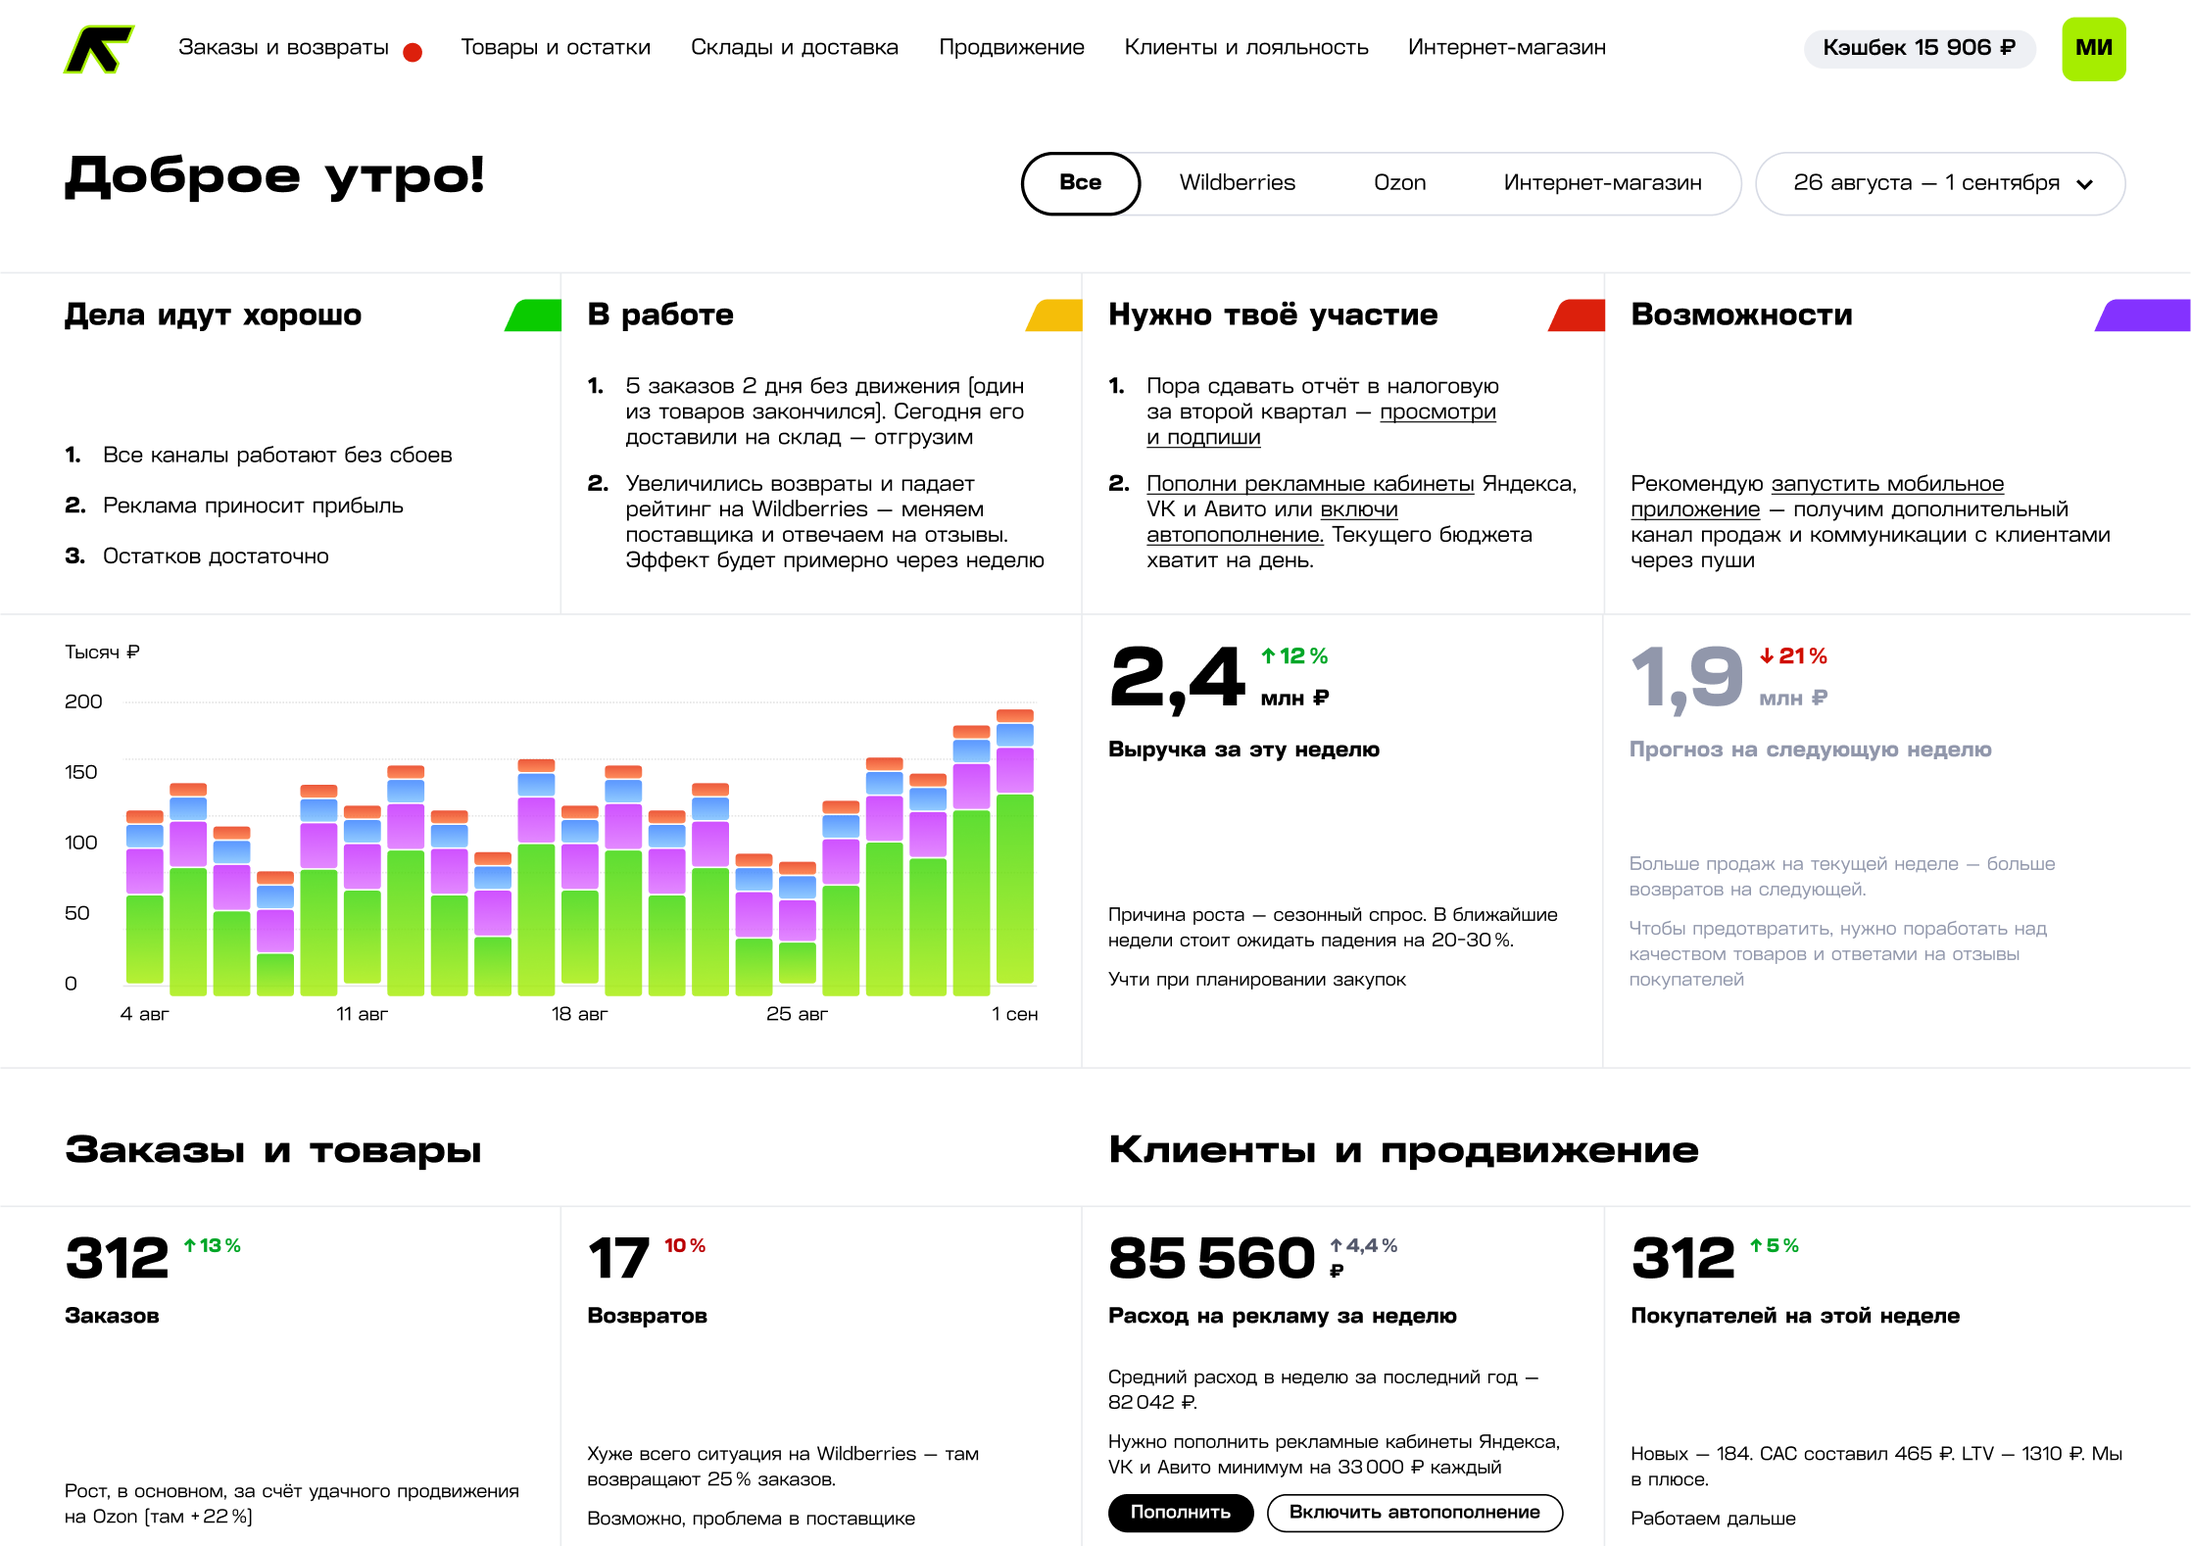
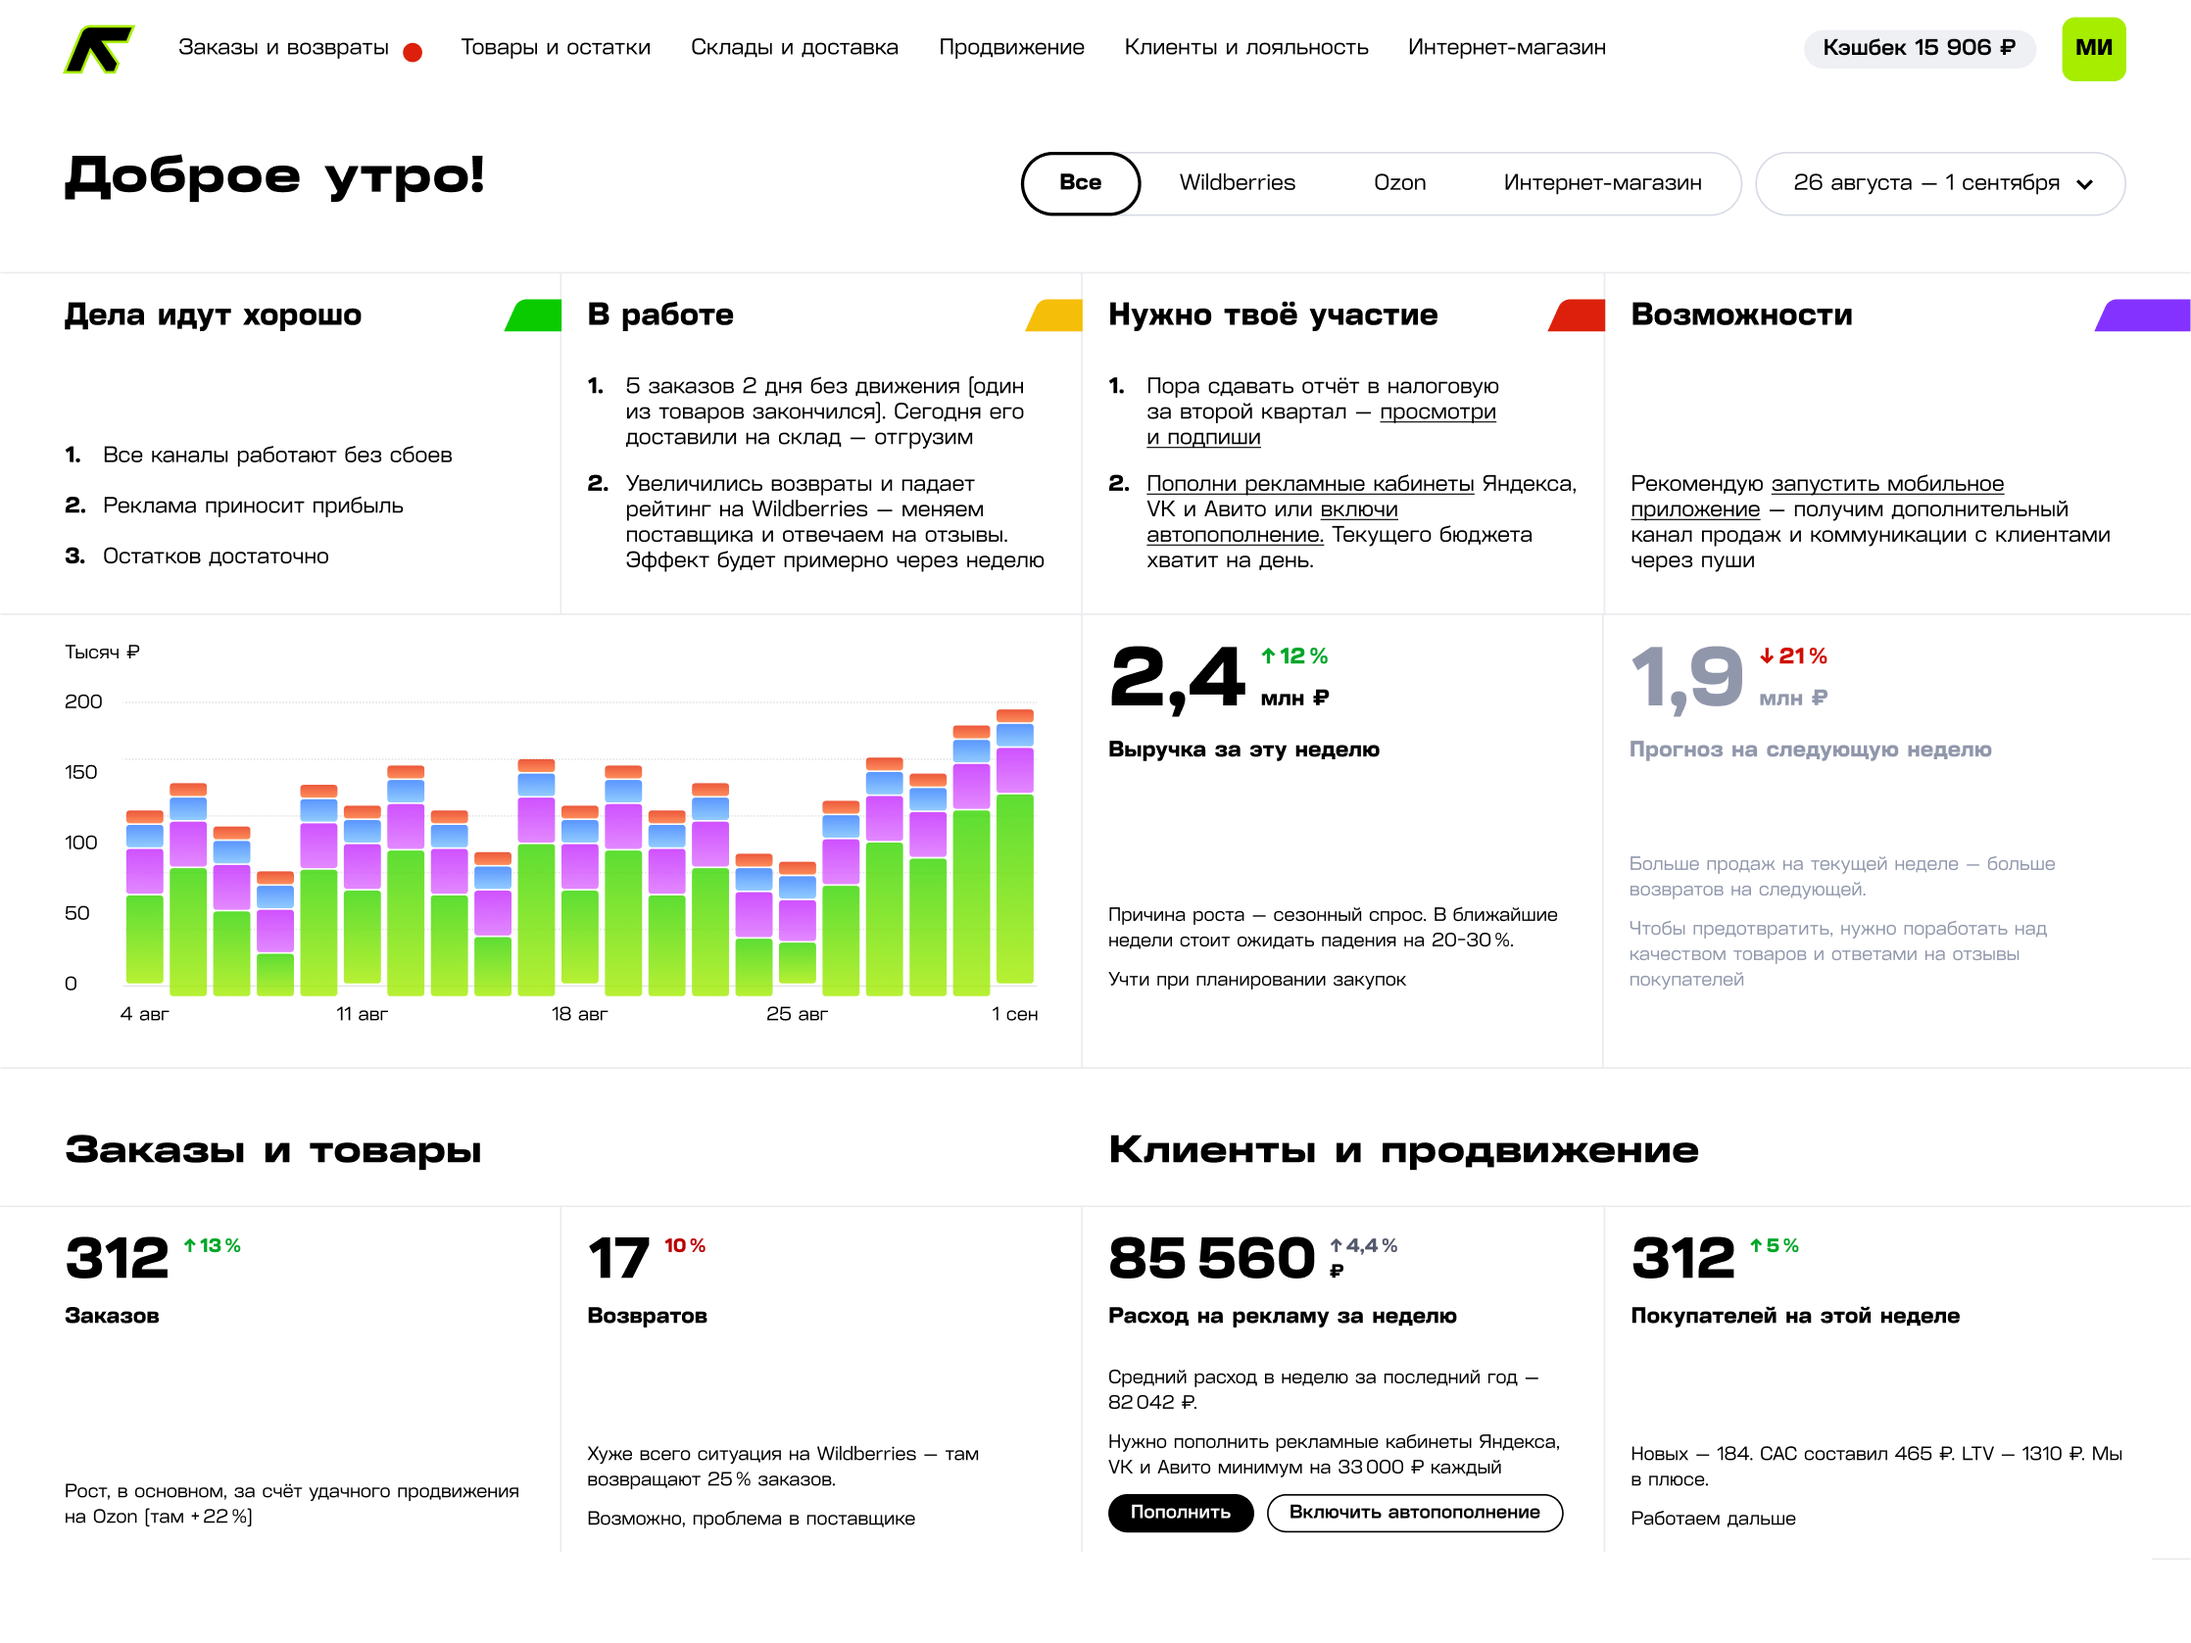
Replace the white section grounds with smoky white

diff --git a/index.html b/index.html
@@ -58,7 +58,7 @@
     </div>
   </section>
 
-  <section class="section" id="capabilities" data-theme="white" data-ink="dark">
+  <section class="section" id="capabilities" data-theme="smoke" data-ink="dark">
     <div class="section__inner">
       <div class="section__lead">
         <h2 class="section__title">Весь цикл продаж в&nbsp;одном кабинете</h2>
@@ -110,7 +110,7 @@
     </div>
   </section>
 
-  <section class="section" id="audience" data-theme="white" data-ink="dark">
+  <section class="section" id="audience" data-theme="smoke" data-ink="dark">
     <div class="section__inner">
       <div class="section__lead">
         <h2 class="section__title">Смелые уже с&nbsp;нами</h2>

diff --git a/assets/css/base.css b/assets/css/base.css
@@ -362,9 +362,9 @@ img { display: block; max-width: 100%; height: auto; }
   opacity: var(--t, 0);
 }
 
-/* Every source so far is 1118×789 (1.42:1) against a 4:3 frame, so `cover` trims 33px off
-   each side at 1x; the client knows and is fine with it (CONTEXT §3). Figma nodes:
-   hero `196:53708`, capabilities `204:51472`. */
+/* Figma nodes: hero `196:53708`, capabilities `206:58220`. The capabilities screen is a
+   true 4:3 frame and fills exactly; the hero photograph is 1.42:1, so `cover` trims 33px
+   off each side at 1x — the client knows and is fine with it (CONTEXT §3). */
 .stage-frame__slide[data-for="hero"] {
   background-image: url("../images/hero.webp");
 }

diff --git a/CONTEXT.md b/CONTEXT.md
@@ -68,15 +68,17 @@ Header + 7 sections + footer.
 | # | Section | Background |
 |---|---|---|
 | 1 | Hero | Green `#A6ED00` |
-| 2 | Key capabilities | White `#FFFFFF` |
+| 2 | Key capabilities | Smoky white `#E9EBEE` |
 | 3 | Speed | Smoky white `#E9EBEE` |
 | 4 | Customization | Black `#000000` |
 | 5 | Marketplaces | Smoky white `#E9EBEE` |
-| 6 | Audience | White `#FFFFFF` |
+| 6 | Audience | Smoky white `#E9EBEE` |
 | 7 | Closer + footer | Black `#000000` — one screen, see below |
 
-**Red is not used on this page at all** (for now). Both dark sections and the footer use
-pure `#000000`; `#1A1817` is unused for now.
+**Red is not used on this page at all** (for now). Both dark sections use pure `#000000`;
+`#1A1817` is unused. Pure white is no longer a section ground either — the four light
+sections are all smoky white, so the page reads green → smoke → smoke → black → smoke →
+smoke → black.
 
 ### Copy — v1, from the client, 2026-09-02
 
@@ -373,7 +375,7 @@ upward without asking.
 
 | Name (RU) | Name (EN) | HEX | Role |
 |---|---|---|---|
-| Чистый белый | Pure white | `#FFFFFF` | **Page ground.** Contrast, crisp compositions. |
+| Чистый белый | Pure white | `#FFFFFF` | Ink on the dark sections. **No longer used as a section ground** — the client replaced both white sections with smoky white. |
 | Дымчато-белый | Smoky white | `#E9EBEE` | Light airy panels, readability, palette balance. |
 | Ярко-зелёный | Bright green | `#A6ED00` | Brand accent: entrepreneurial freedom, growth. |
 | Чистый чёрный | Pure black | `#000000` | Base of the visual system. Sections 4, 7, footer. |

diff --git a/WORKLOG.md b/WORKLOG.md
@@ -1,5 +1,20 @@
 # Worklog
 
+## 2026-09-02 — no more white sections
+
+**What changed.** `index.html`: `data-theme="white"` → `"smoke"` on capabilities and
+audience. `CONTEXT.md`: section table, palette table and the colour-rhythm note.
+
+**Why.** Client wants no pure-white grounds.
+
+**How it was verified.** Walked the seven snap positions: the page now reads green → smoke →
+smoke → black → smoke → smoke → black, `rgb(233, 235, 238)` on all four light sections, ink
+flipping to white on the two black ones. No `data-theme="white"` left in the markup.
+
+**Worth noting.** Pure white is now only an ink colour, and four of the seven sections share
+one ground — the colour sequence is flatter than it was. Said out loud in case the board
+demo wanted more variety there; the client asked for it explicitly.
+
 ## 2026-09-02 — marketplaces subtitle rewritten
 
 **What changed.** `index.html`: the marketplaces subtitle is now "Даём аналитику
